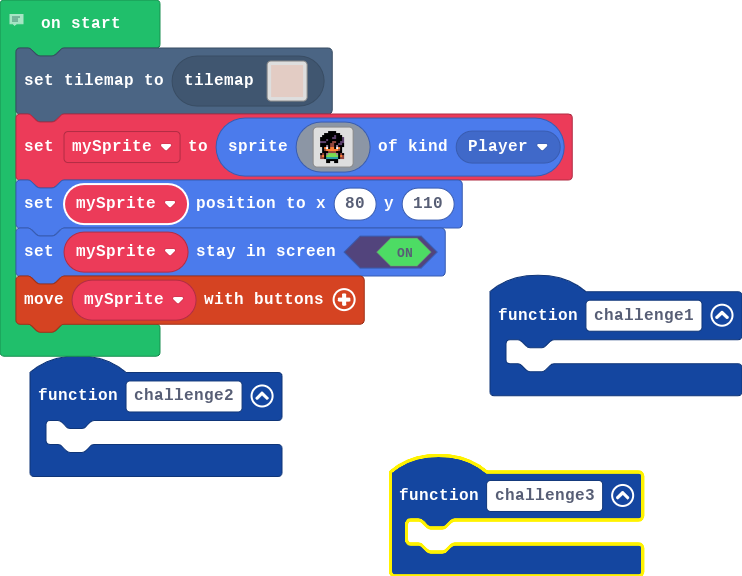
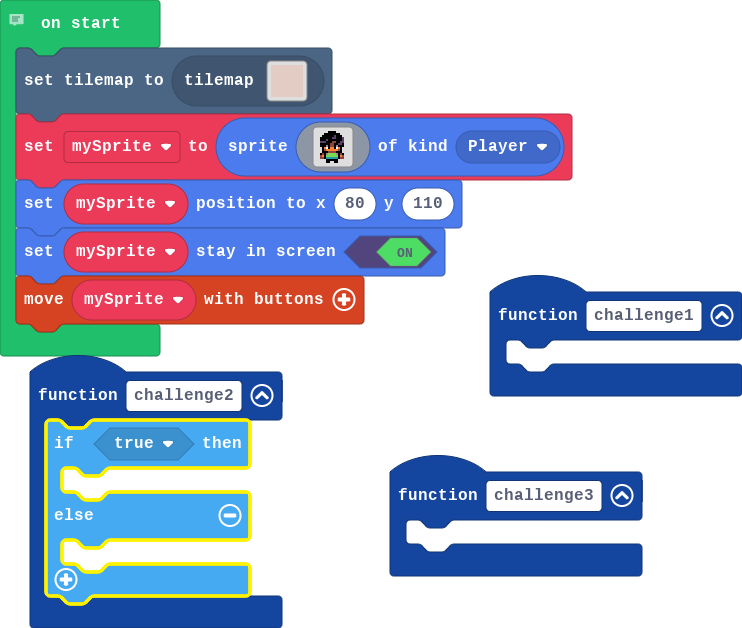
Update main.blocks, main.ts

diff --git a/main.ts b/main.ts
@@ -5,7 +5,11 @@ function challenge3 () {
 	
 }
 function challenge2 () {
-	
+    if (true) {
+    	
+    } else {
+    	
+    }
 }
 // Don't forget to comment your code as you work!
 tiles.setCurrentTilemap(tilemap`level2`)
